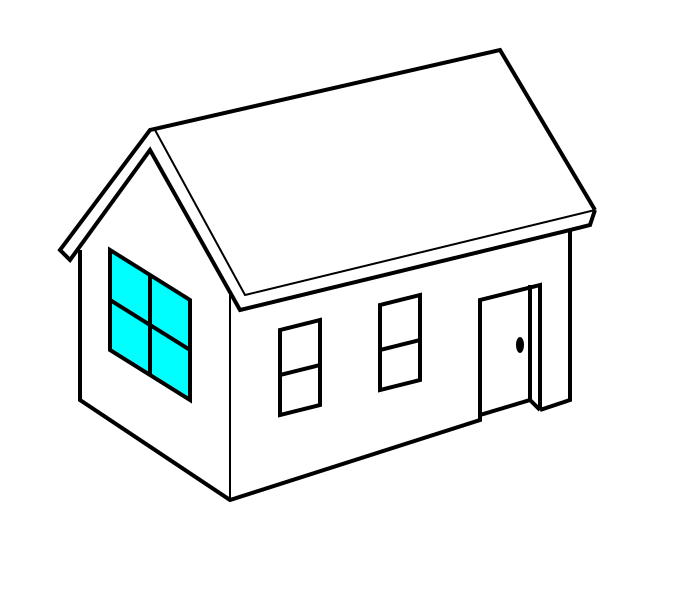
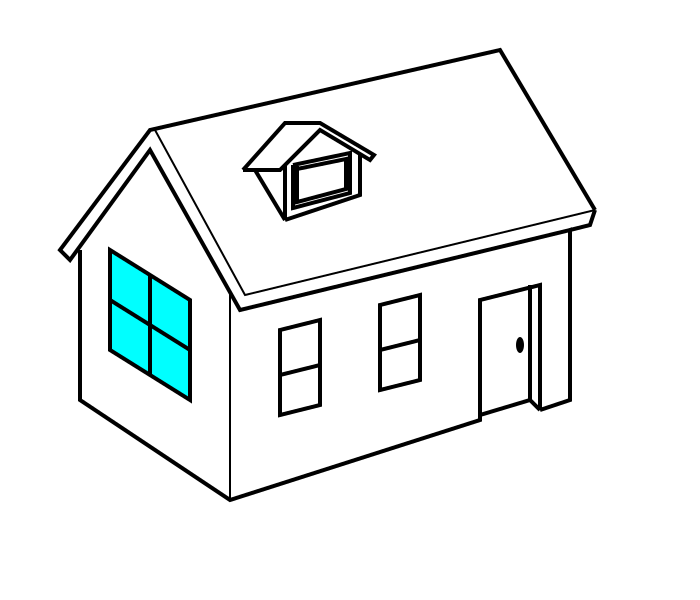
initial commit

Changed region(s): [[0.33, 0.18, 0.54, 0.39]]

diff --git a/house.py b/house.py
@@ -42,6 +42,48 @@ ctx.line_to(500,0)
 ctx.line_to(595,160)
 #Roof End
 
+#Roof Window
+ctx.save()
+ctx.translate(120,-40)
+ctx.move_to(165,210)#1
+ctx.line_to(165,155)#4
+ctx.stroke()
+
+#Window
+ctx.move_to(173,155)#4
+ctx.line_to(230,143)#6
+ctx.line_to(230,183)#6
+ctx.line_to(173,198)#1
+ctx.line_to(173,155)#4
+
+ctx.move_to(173 +4,155+4)#4
+ctx.line_to(230 - 4,143 + 6)#6
+ctx.line_to(230 -4,183 - 4)#6
+ctx.line_to(173 + 4,198 - 6)#1
+ctx.line_to(173 + 4,155 + 4)#4
+
+ctx.move_to(177,156)
+ctx.line_to(177, 176)
+ctx.stroke()
+
+#Roof
+ctx.move_to(165,210)#1
+ctx.line_to(135,160)#2
+ctx.line_to(123,160)#3
+ctx.line_to(160,160)#4
+ctx.line_to(200,120)#5
+ctx.line_to(250,150)#6
+ctx.line_to(254,145)#7
+ctx.line_to(200,113)#8
+ctx.line_to(165,113)#9
+ctx.line_to(123,160)#3
+
+ctx.move_to(165,210)#1
+ctx.line_to(240,185)#6
+ctx.line_to(240,143)#6
+ctx.set_line_width(4)
+ctx.restore()
+
 ctx.move_to(570,180)
 ctx.line_to(590,175)
 ctx.line_to(595,160)
@@ -91,8 +133,6 @@ ctx.line_to(260,365)
 ctx.close_path()
 ctx.move_to(260,325)
 ctx.line_to(300,315)
-
-
 
 #Right Window
 ctx.translate(100,-25)
